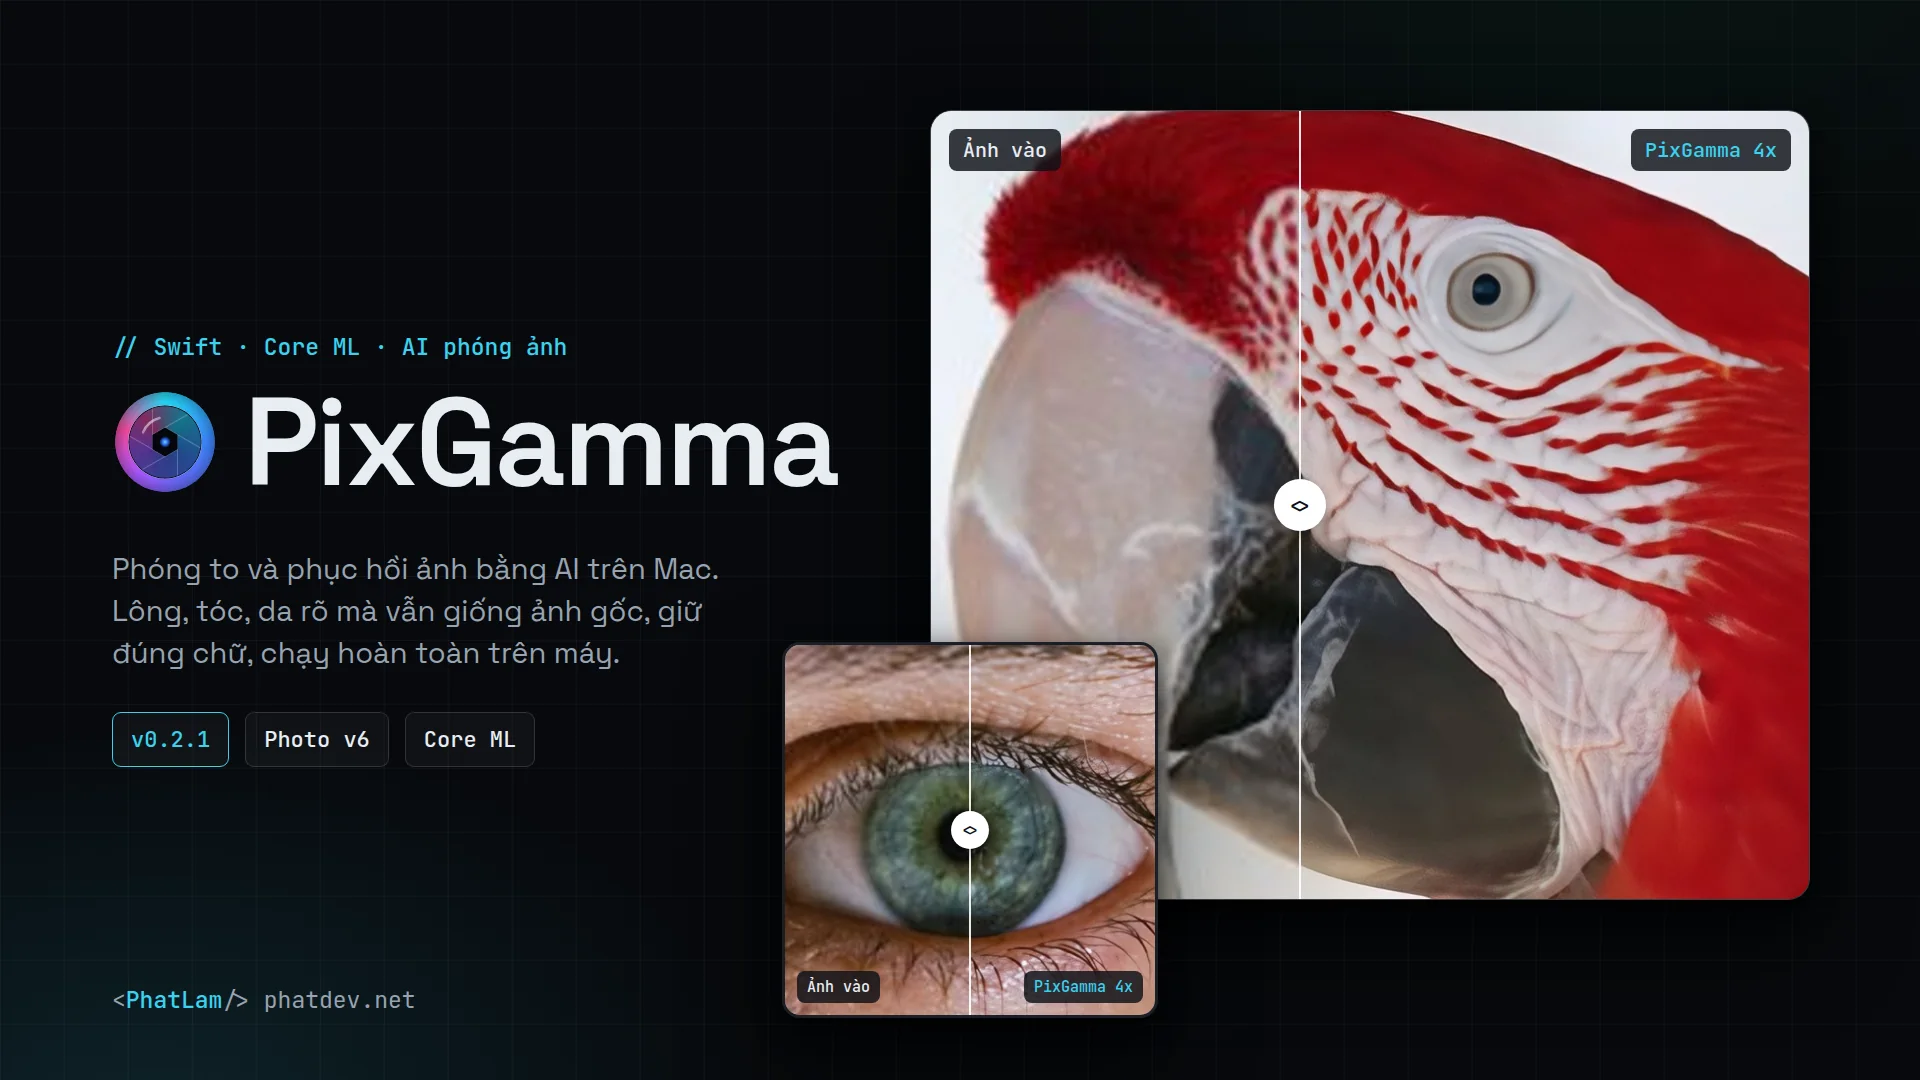
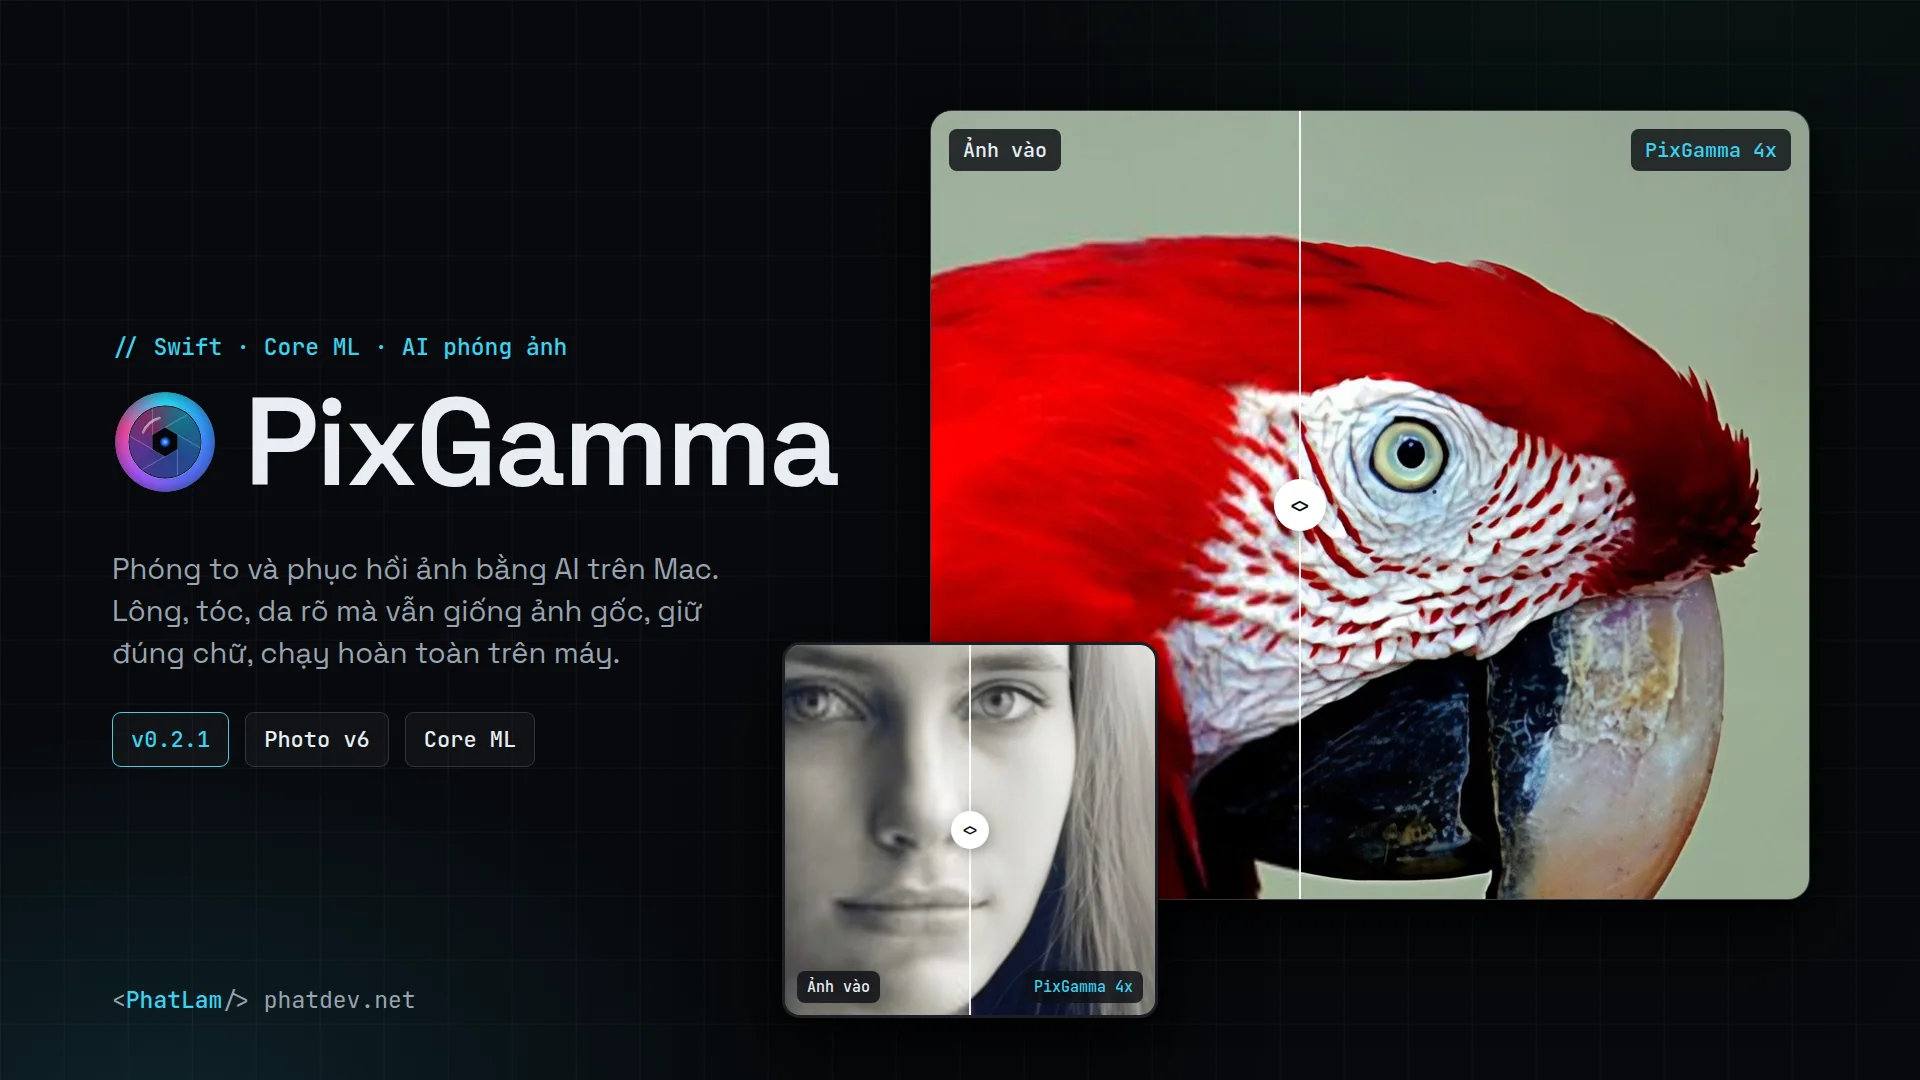
README: v4, v6, UltraSharpV2 and original side by side
The examples are now the comparison figures from the Photo v6 evaluation:
a red macaw, long hair, an eyebrow and skin close-up, and the cat. Each
figure shows the whole photo plus two crops, with the DISTS score from
the fine-detail benchmark. They come in Light and Dark versions that
follow GitHub's theme, in Vietnamese and English.

The hero now uses the same macaw and portrait. The Fenit sign stays as the
text example. Credits updated.

diff --git a/README.md b/README.md
@@ -24,7 +24,7 @@
 <p align="center">
   <picture>
     <source media="(prefers-color-scheme: dark)" srcset="docs/brand/hero-vi-dark.webp">
-    <img src="docs/brand/hero-vi-light.webp" width="100%" alt="PixGamma: con vẹt và mắt người trước/sau khi phóng 4x">
+    <img src="docs/brand/hero-vi-light.webp" width="100%" alt="PixGamma: con vẹt và chân dung trước/sau khi phóng 4x">
   </picture>
 </p>
 
@@ -91,23 +91,31 @@ Xóa `/Applications/PixGamma.app` và thư mục `~/Library/Application Support/
 
 ## Ví dụ
 
-Ảnh vào được thu nhỏ 4 lần rồi nén JPEG để giống ảnh lấy từ web, sau đó phóng 4x bằng app (chế độ Auto, PixGamma Photo v6). Mỗi ảnh gồm phóng thường bicubic, PixGamma 4x và ảnh gốc, cắt đúng điểm ảnh 1:1.
+Ảnh gốc được thu nhỏ 4 lần (400 đến 480 px) rồi phóng lại 4x. Mỗi ảnh đặt PixGamma Photo v6 cạnh Photo v4, UltraSharpV2 và ảnh gốc; khung vàng là vùng được cắt phóng to bên dưới, số DISTS lấy từ bộ chấm chi tiết mịn (thấp hơn là giống ảnh gốc hơn).
 
-| Biển chào ở Fenit, Ireland (giữ chữ) |
+<picture>
+  <source media="(prefers-color-scheme: dark)" srcset="docs/samples/compare-macaw-v6-vi-dark.webp">
+  <img src="docs/samples/compare-macaw-v6-vi-light.webp" width="100%" alt="Lông vẹt: Photo v4, Photo v6, UltraSharpV2 và ảnh gốc">
+</picture>
+
+<picture>
+  <source media="(prefers-color-scheme: dark)" srcset="docs/samples/compare-hair-v6-vi-dark.webp">
+  <img src="docs/samples/compare-hair-v6-vi-light.webp" width="100%" alt="Tóc: Photo v4, Photo v6, UltraSharpV2 và ảnh gốc">
+</picture>
+
+<picture>
+  <source media="(prefers-color-scheme: dark)" srcset="docs/samples/compare-skin-v6-vi-dark.webp">
+  <img src="docs/samples/compare-skin-v6-vi-light.webp" width="100%" alt="Lông mày và da: Photo v4, Photo v6, UltraSharpV2 và ảnh gốc">
+</picture>
+
+<picture>
+  <source media="(prefers-color-scheme: dark)" srcset="docs/samples/compare-fur-v6-vi-dark.webp">
+  <img src="docs/samples/compare-fur-v6-vi-light.webp" width="100%" alt="Lông mèo: ảnh vào, UltraSharpV2, Photo v6 và ảnh gốc">
+</picture>
+
+| Biển chào ở Fenit, Ireland (giữ chữ; bicubic, PixGamma 4x qua app, ảnh gốc) |
 |---|
 | ![Biển chữ: bicubic, PixGamma và ảnh gốc](docs/samples/compare-sign-vi.jpg) |
-
-| Lông vẹt (Standard) |
-|---|
-| ![Vẹt: bicubic, PixGamma và ảnh gốc](docs/samples/compare-macaw-vi.jpg) |
-
-| Chân dung đen trắng (khuôn mặt Chân thực) |
-|---|
-| ![Chân dung: bicubic, PixGamma và ảnh gốc](docs/samples/compare-portrait-vi.jpg) |
-
-| Tóc dài (Standard) |
-|---|
-| ![Tóc: bicubic, PixGamma và ảnh gốc](docs/samples/compare-hair-vi.jpg) |
 
 Nguồn ảnh mẫu ở [docs/samples/CREDITS.md](docs/samples/CREDITS.md) (CC0 và public domain).
 

diff --git a/README.en.md b/README.en.md
@@ -24,7 +24,7 @@
 <p align="center">
   <picture>
     <source media="(prefers-color-scheme: dark)" srcset="docs/brand/hero-en-dark.webp">
-    <img src="docs/brand/hero-en-light.webp" width="100%" alt="PixGamma: macaw and human eye before and after 4x upscaling">
+    <img src="docs/brand/hero-en-light.webp" width="100%" alt="PixGamma: macaw and portrait before and after 4x upscaling">
   </picture>
 </p>
 
@@ -91,23 +91,31 @@ Delete `/Applications/PixGamma.app` and `~/Library/Application Support/PixGamma`
 
 ## Examples
 
-Inputs were downscaled 4 times and JPEG-compressed to mimic web images, then upscaled 4x by the app (Auto mode, PixGamma Photo v6). Each row shows a bicubic resize, PixGamma 4x and the original, cropped at 1:1 pixels.
+Originals were downscaled 4 times (400 to 480 px) and upscaled back 4x. Each figure puts PixGamma Photo v6 next to Photo v4, UltraSharpV2 and the original; the yellow boxes are the crops shown below, and the DISTS numbers come from the fine-detail benchmark (lower is closer to the original).
 
-| Welcome sign in Fenit, Ireland (text protection) |
+<picture>
+  <source media="(prefers-color-scheme: dark)" srcset="docs/samples/compare-macaw-v6-en-dark.webp">
+  <img src="docs/samples/compare-macaw-v6-en-light.webp" width="100%" alt="Parrot feathers: Photo v4, Photo v6, UltraSharpV2 and the original">
+</picture>
+
+<picture>
+  <source media="(prefers-color-scheme: dark)" srcset="docs/samples/compare-hair-v6-en-dark.webp">
+  <img src="docs/samples/compare-hair-v6-en-light.webp" width="100%" alt="Hair: Photo v4, Photo v6, UltraSharpV2 and the original">
+</picture>
+
+<picture>
+  <source media="(prefers-color-scheme: dark)" srcset="docs/samples/compare-skin-v6-en-dark.webp">
+  <img src="docs/samples/compare-skin-v6-en-light.webp" width="100%" alt="Eyebrows and skin: Photo v4, Photo v6, UltraSharpV2 and the original">
+</picture>
+
+<picture>
+  <source media="(prefers-color-scheme: dark)" srcset="docs/samples/compare-fur-v6-en-dark.webp">
+  <img src="docs/samples/compare-fur-v6-en-light.webp" width="100%" alt="Cat fur: input, UltraSharpV2, Photo v6 and the original">
+</picture>
+
+| Welcome sign in Fenit, Ireland (text protection; bicubic, PixGamma 4x through the app, original) |
 |---|
 | ![Sign: bicubic, PixGamma and the original](docs/samples/compare-sign-en.jpg) |
-
-| Macaw feathers (Standard) |
-|---|
-| ![Macaw: bicubic, PixGamma and the original](docs/samples/compare-macaw-en.jpg) |
-
-| Black-and-white portrait (Realistic face) |
-|---|
-| ![Portrait: bicubic, PixGamma and the original](docs/samples/compare-portrait-en.jpg) |
-
-| Long hair (Standard) |
-|---|
-| ![Hair: bicubic, PixGamma and the original](docs/samples/compare-hair-en.jpg) |
 
 Sample sources: [docs/samples/CREDITS.md](docs/samples/CREDITS.md) (CC0 and public domain).
 

diff --git a/docs/samples/CREDITS.md b/docs/samples/CREDITS.md
@@ -1,14 +1,13 @@
 # Nguồn ảnh mẫu
 
-Ảnh gốc trong `docs/samples/source/` được tải từ Wikimedia Commons (thu về rộng 1920 px). Không ảnh nào nằm trong dữ liệu huấn luyện của PixGamma.
-Ảnh so sánh `compare-*-{vi,en}.jpg` và ảnh bìa `docs/brand/hero-*.webp` do PixGamma tạo từ các ảnh này: thu nhỏ 4 lần, nén JPEG,
-rồi phóng lại 4x bằng app (chế độ Auto, PixGamma Photo v6).
+Ảnh gốc trong `docs/samples/source/` được tải từ Wikimedia Commons (thu về rộng 1920 px). Đây là các ảnh trong bộ chấm của PixGamma, không ảnh nào nằm trong dữ liệu huấn luyện.
+Ảnh so sánh `compare-*` và ảnh bìa `docs/brand/hero-*.webp` do PixGamma tạo từ các ảnh này: thu nhỏ 4 lần rồi phóng lại 4x
+(Photo v4, Photo v6, UltraSharpV2; ảnh bìa và ví dụ biển chữ chạy qua app ở chế độ Auto).
 
 | File | Ảnh gốc | Tác giả | Giấy phép |
 |---|---|---|---|
+| `macaw.jpg` | [Red Blue Macaw. (9103636335)](https://commons.wikimedia.org/wiki/File:Red_Blue_Macaw._(9103636335).jpg) | Bernard Spragg. NZ | CC0 1.0 |
+| `hair.jpg` | [Long hair model](https://commons.wikimedia.org/wiki/File:Long_hair_model.jpg) | Andrea Piacquadio (@VanveenJF) | CC0 1.0 |
+| `portrait.jpg` | [Woman (headshot) (1)](https://commons.wikimedia.org/wiki/File:Woman_(headshot)_(1).jpg) | Daniel Sone | Public domain |
+| `cat.jpg` | [Wide-eyed tiger cat (Unsplash)](https://commons.wikimedia.org/wiki/File:Wide-eyed_tiger_cat_(Unsplash).jpg) | Caleb Woods | CC0 1.0 |
 | `sign.jpg` | [Sign-1130628, Fenit, Co. Kerry, Ireland](https://commons.wikimedia.org/wiki/File:Sign-1130628,_Fenit,_Co._Kerry,_Ireland.jpg) | Mucklagh | CC0 1.0 |
-| `macaw.jpg` | [Military macaw head closeup at Cougar Mountain Zoological Park](https://commons.wikimedia.org/wiki/File:Military_macaw_head_closeup_at_Cougar_Mountain_Zoological_Park.jpg) | Dcoetzee | CC0 1.0 |
-| `macaw2.jpg` | [Green-winged macaw headshot at Cougar Mountain Zoological Park](https://commons.wikimedia.org/wiki/File:Green-winged_macaw_headshot_at_Cougar_Mountain_Zoological_Park.jpg) | Dcoetzee | CC0 1.0 |
-| `portrait.jpg` | [Tree lights and woman smiling (Unsplash)](https://commons.wikimedia.org/wiki/File:Tree_lights_and_woman_smiling_(Unsplash).jpg) | Brooke Cagle | CC0 1.0 |
-| `hair.jpg` | [Smiling woman on a balcony (Unsplash)](https://commons.wikimedia.org/wiki/File:Smiling_woman_on_a_balcony_(Unsplash).jpg) | Eli DeFaria | CC0 1.0 |
-| `eye.jpg` | [Eye Contact (Unsplash)](https://commons.wikimedia.org/wiki/File:Eye_Contact_(Unsplash).jpg) | Jordan Whitfield | CC0 1.0 |
